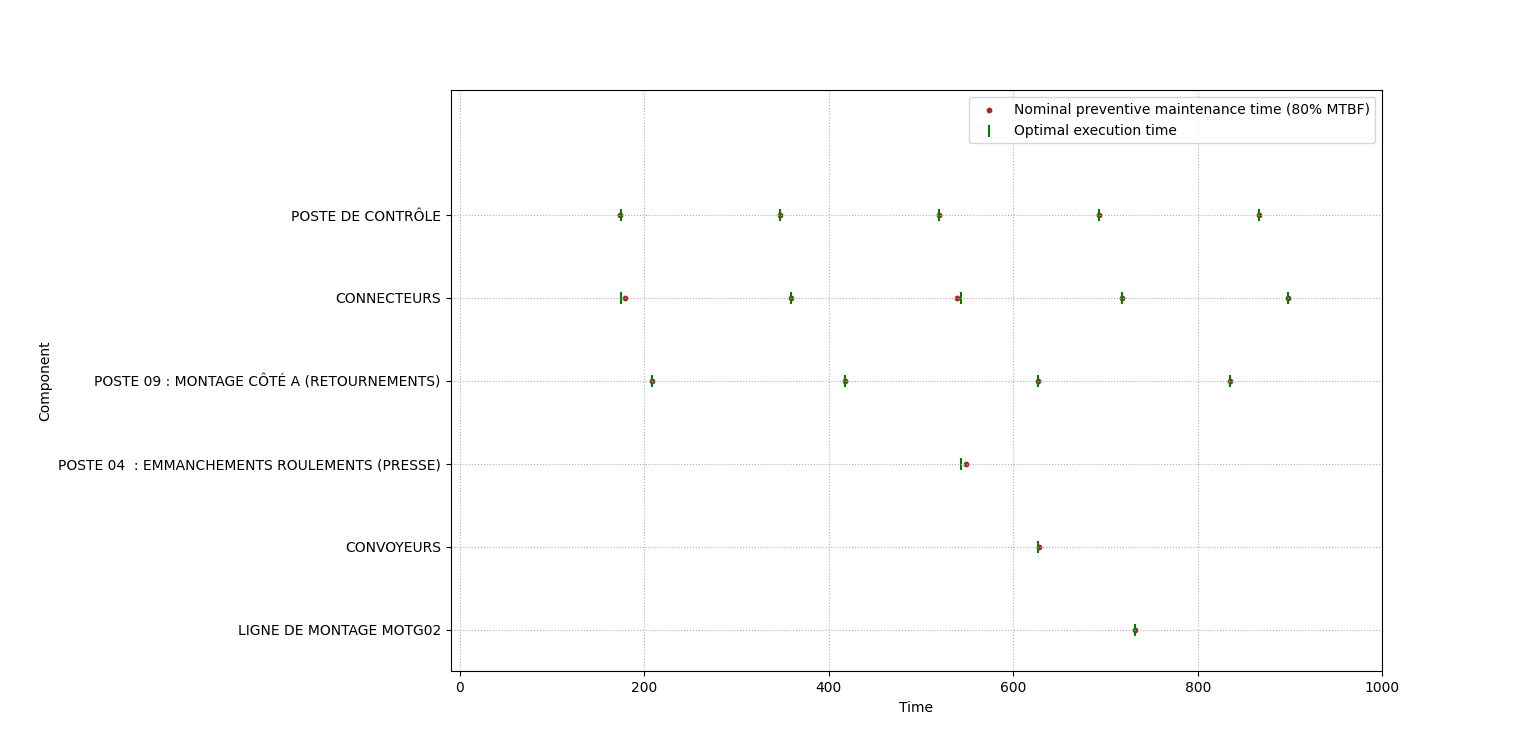
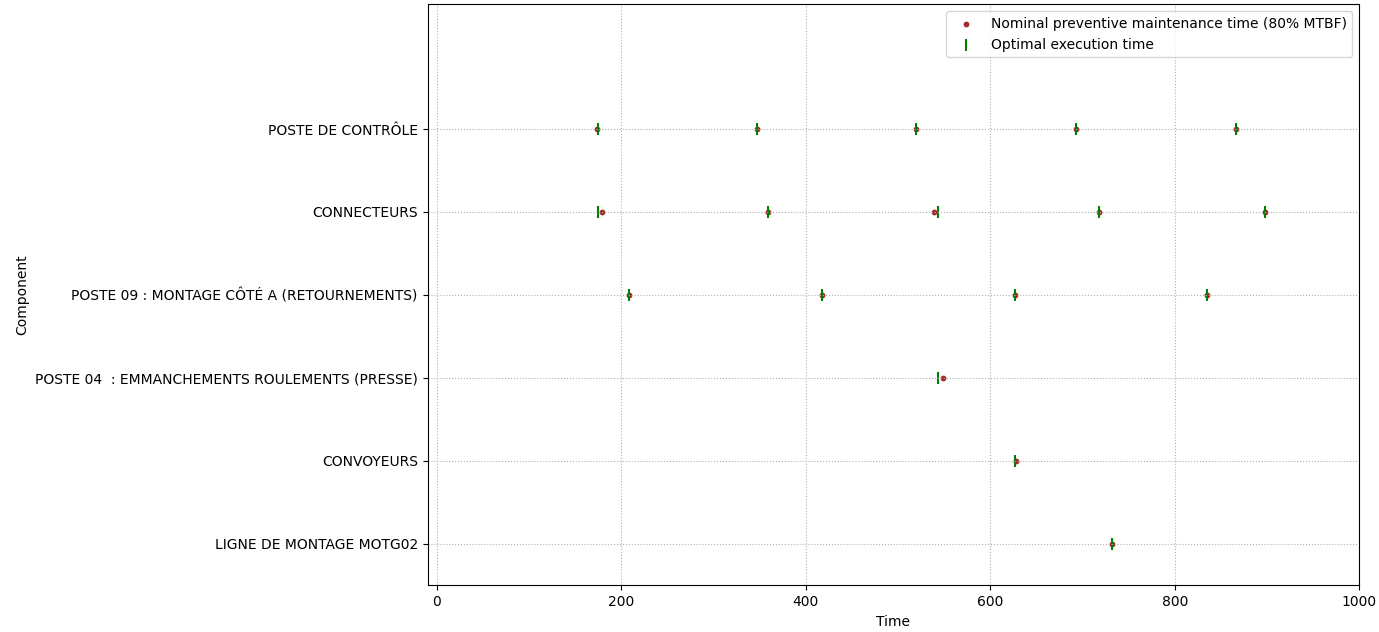
a

diff --git a/SEW_MTBF_optimization_1000h/graph_all_components.py b/SEW_MTBF_optimization_1000h/graph_all_components.py
@@ -421,7 +421,7 @@ plt.scatter(MTBF_POSTE_14.iloc[0]*np.array([i for i in range(1, int(5500/MTBF_PO
 
 
 
-plt.title('Distribution of failure on each component (1000h)')
+plt.title('Distribution of failure on each component')
 ax.grid(True, linestyle=':')                                       # Make grid lines visible
 plt.legend(loc='upper right')
 plt.show()
